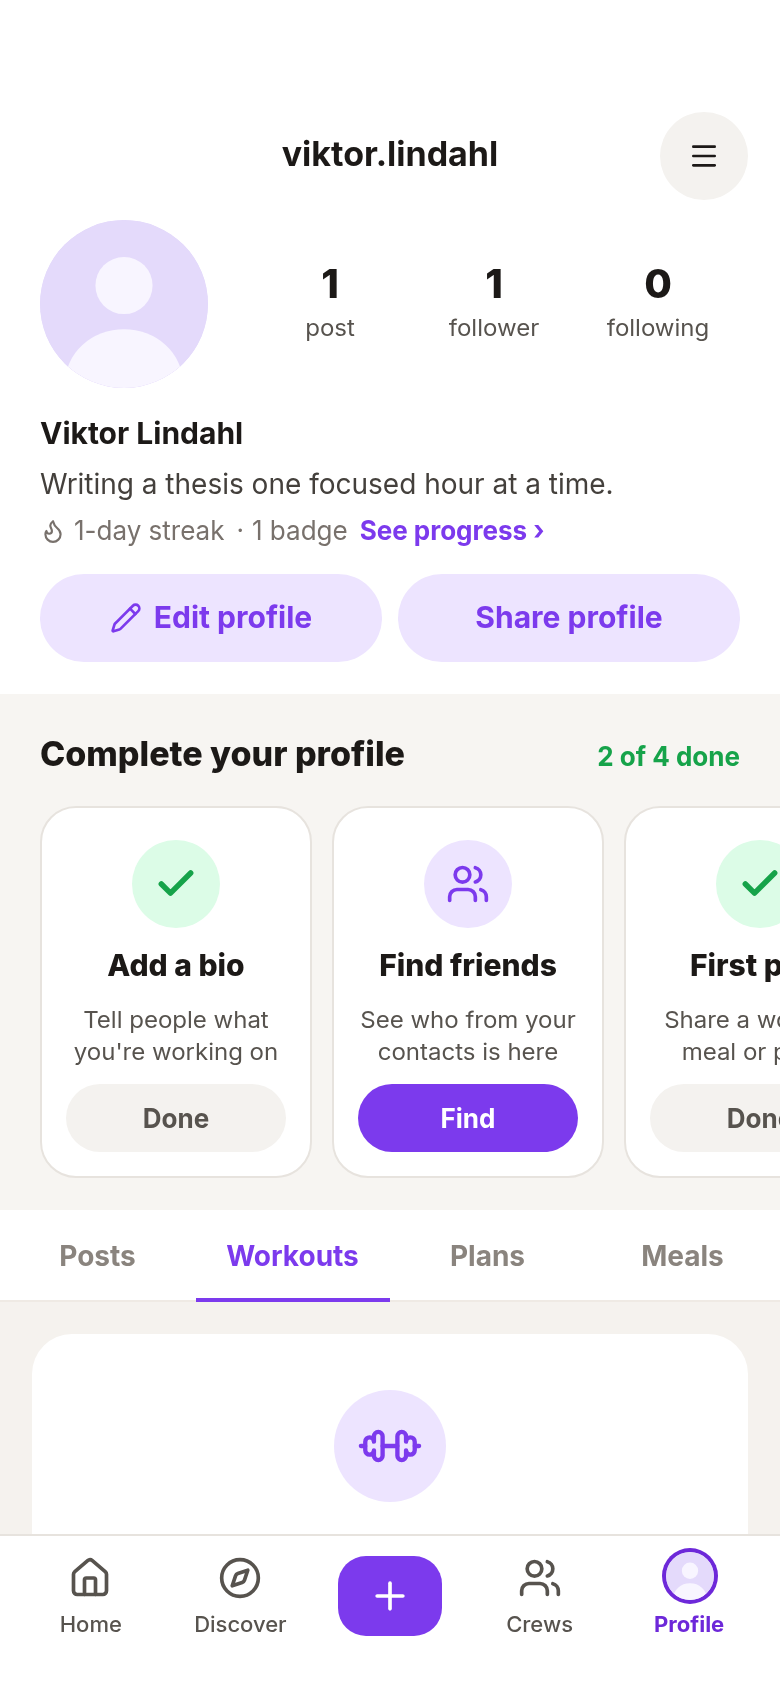
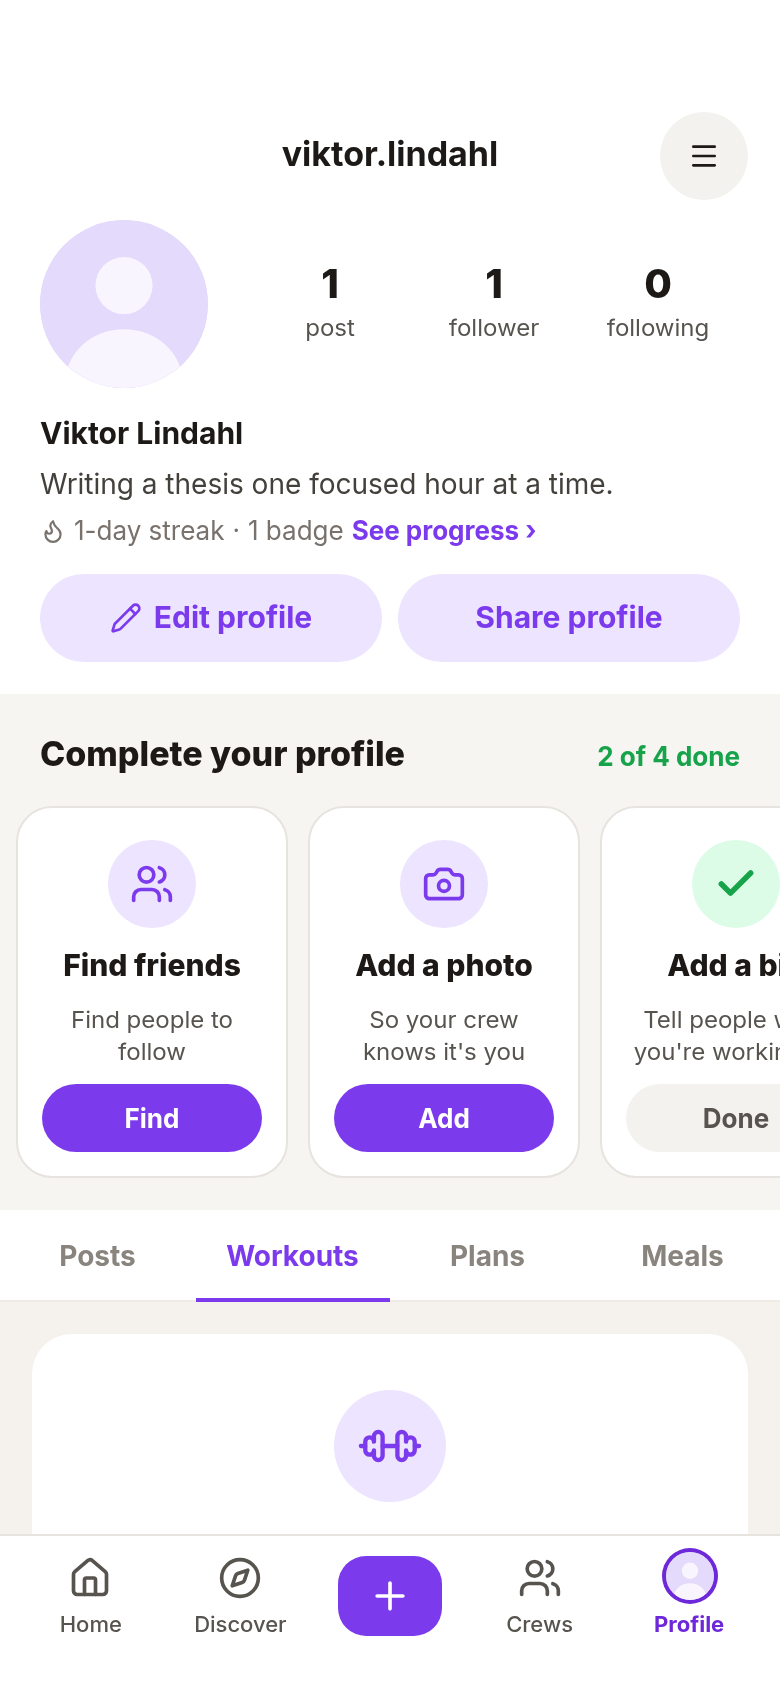
Put unfinished profile setup steps first and clarify Find friends

Changed region(s): [[0.0308, 0.4929, 1.0, 0.7085], [0.3077, 0.3081, 0.6769, 0.3389]]

diff --git a/src/lib/profile-state.ts b/src/lib/profile-state.ts
@@ -128,10 +128,10 @@ export type SetupStep = { key: 'bio' | 'friends' | 'post' | 'photo'; title: stri
 export function completeProfileSteps(input: { bio: string | null; following: number; posts: number; hasPhoto: boolean }): { steps: SetupStep[]; done: number } | null {
   const steps: SetupStep[] = [
     { key: 'bio', title: 'Add a bio', body: "Tell people what you're working on", action: 'Add bio', done: !!input.bio?.trim() },
-    { key: 'friends', title: 'Find friends', body: 'See who from your contacts is here', action: 'Find', done: input.following > 0 },
+    { key: 'friends', title: 'Find friends', body: 'Find people to follow', action: 'Find', done: input.following > 0 },
     { key: 'post', title: 'First post', body: 'Share a workout, meal or photo', action: 'Post', done: input.posts > 0 },
     { key: 'photo', title: 'Add a photo', body: "So your crew knows it's you", action: 'Add', done: input.hasPhoto },
   ];
   const done = steps.filter(s => s.done).length;
-  return done === steps.length ? null : { steps, done };
+  return done === steps.length ? null : { steps: [...steps.filter(s => !s.done), ...steps.filter(s => s.done)], done };
 }

diff --git a/src/lib/__tests__/profile-state.test.ts b/src/lib/__tests__/profile-state.test.ts
@@ -83,5 +83,12 @@ describe('completeProfileSteps', () => {
     expect(r?.steps.map(s => s.done)).toEqual([false, false, false, true]);
   });
   it('blank bio is not done', () => expect(completeProfileSteps({ bio: '  ', following: 1, posts: 1, hasPhoto: true })?.done).toBe(3));
+  it('puts unfinished steps first and preserves base order within both groups', () => {
+    const nadia = completeProfileSteps({ bio: 'Training together', following: 1, posts: 1, hasPhoto: false });
+    expect(nadia?.steps.map(s => s.key)).toEqual(['photo', 'bio', 'friends', 'post']);
+    expect(nadia?.steps.map(s => s.done)).toEqual([false, true, true, true]);
+    const mixed = completeProfileSteps({ bio: 'Training together', following: 0, posts: 1, hasPhoto: false });
+    expect(mixed?.steps.map(s => s.key)).toEqual(['friends', 'photo', 'bio', 'post']);
+  });
   it('disappears when all 4 are done', () => expect(completeProfileSteps({ bio: 'Hi', following: 2, posts: 1, hasPhoto: true })).toBeNull());
 });

diff --git a/roadmap.md b/roadmap.md
@@ -253,3 +253,8 @@
 - [x] Shared full workout/meal post sections and reversible library saves; own posts omit saves
 - [x] Real 390px flow checks and six requested public/qa/p5 captures; all temporary example members, subscriptions, crews, content, workouts, meals, exercises and storage photos removed. Native shell points to the hosted app; 390x844 browser geometry passed without horizontal overflow or content under the bottom bar. Physical iPhone and actual safe-area inset emulation remain unverified.
 - [x] Full suite: 989 tests across 107 files passed; automatic typecheck/build clean; saved without publishing.
+
+## Complete your profile follow-up
+- [x] Updated Find friends description and stable unfinished-first step order; added ordering regression test.
+- [x] Retook 01, 03 and 20 at 390px without toasts using existing draft accounts; restored Nadia and Viktor to classic, left Rosa on her original new version.
+- [x] Full suite: 1032 tests across 110 files passed on first run, no failures; typecheck passed; unpublished.
